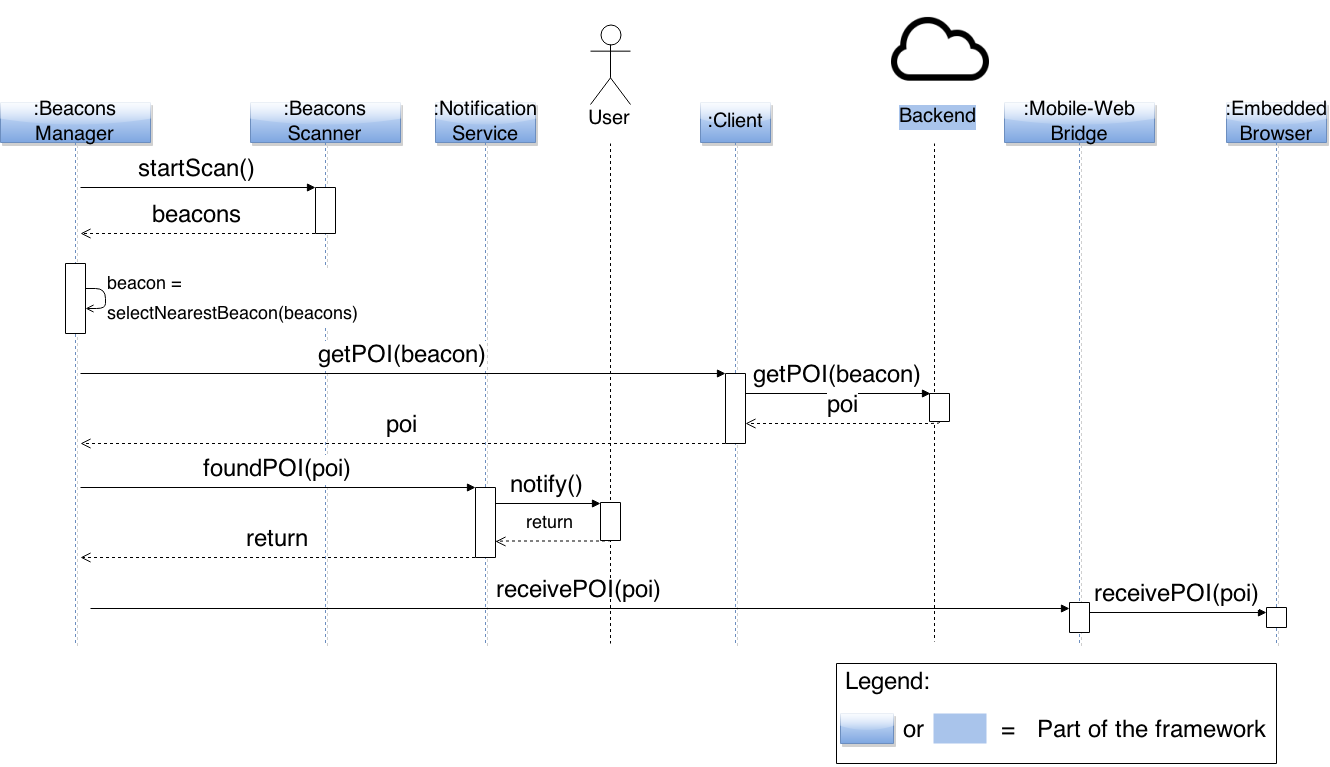
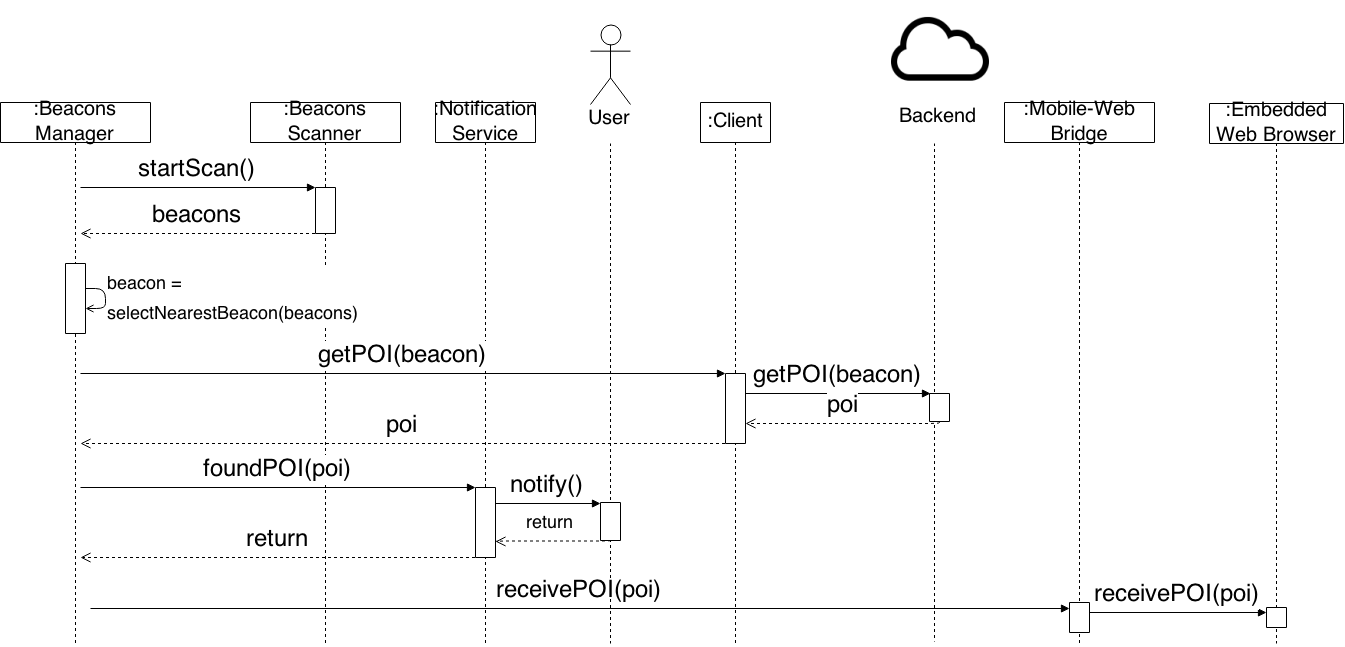
Final fix before release

diff --git a/sections/6-architecture.tex b/sections/6-architecture.tex
@@ -28,7 +28,10 @@ they run in the device's browser.
 This is the main reason why our framework will
 target mobile web apps instead of native ones.
 This means that, when the user starts to interact
-with a Smart Place, he will interact with a mobile
+with a Smart Place, he will initially discover the
+beacons using a native app but from that moment
+onwards
+he will interact with a mobile
 web app, running in his mobile device's browser.
 
 However, detecting
@@ -84,7 +87,7 @@ Also, \textbf{Smart Places Owners} can use it to configure
 their Smart Places and configure which applications
 will run there.
 Since these apps will be mobile web apps, they will run
-in a embedded browser inside the Smart Places App.
+in a embedded web browser inside the Smart Places App.
 \textbf{Developers} will need to use the \textbf{Framework} to
 develop such apps. Also, the Framework will provide an
 Interface between the mobile web app, that will run
@@ -130,7 +133,7 @@ the Beacons Manager will call the \textbf{Mobile-web Bridge},
 which provides an interface between the native app
 and the web app, that will deliver this information
 to the mobile web app that is running in the
-\textbf{Embedded Browser}. 
+\textbf{Embedded Web Browser}. 
 Each time the web app needs to interact
 with the native app, this component is called.
 The \textbf{User Manager} is called to login the
@@ -211,7 +214,7 @@ about the Smart Places that were found.
 Then, the user can ignore the notification or
 choose one Smart Place. If he selects one,
 the Beacons Manager calls the Mobile-Web Bridge,
-which will request the Embedded Browser to load
+which will request the Embedded Web Browser to load
 the URL of the selected Smart Place. Now, the user
 will have access to the web application associated
 with the Smart Place;
@@ -235,20 +238,20 @@ found. After the user clicks on the notification,
 the Beacons Manager will call the Mobile-Web
 Bridge to deliver the POI object to the mobile
 web application that belongs to the Smart Place
-and is running in the Embedded Browser.
+and is running in the Embedded Web Browser.
 \end{itemize}
 
 \begin{figure}[!ht]
   \centering
     \includegraphics[width=1\textwidth]{img/smart-places-sequence}
-    \caption{Sequence Diagram}
+    \caption{Discover smart place sequence diagram}
     \label{fig:sequence-smart-places}
 \end{figure}
 
 \begin{figure}[!ht]
   \centering
     \includegraphics[width=1\textwidth]{img/smart-places-poi-sequence}
-    \caption{Sequence Diagram}
+    \caption{Mapping beacons in a smart place sequence diagram}
     \label{fig:sequence-poi}
 \end{figure}
 
@@ -259,7 +262,7 @@ to develop their applications without having to
 configure any backend and writing code to handle
 the BLE Beacons.
 They will only write the code
-that will run inside the Embedded Browser.
+that will run inside the Embedded Web Browser.
 Their applications will receive POI objects,
 which can be handled by any function. Since
 these functions will run in the mobile
@@ -303,7 +306,7 @@ is a wireless signal.
 
 \item How to pass POI objects from the mobile
 app to the web application running inside the
-Embedded Browser.
+Embedded Web Browser.
 The application that belong to a Smart Place
 will run in the mobile device's browser.
 However, after mapping beacons to POI objects,
@@ -363,7 +366,7 @@ in order to be able to interact with a Smart Place
 our solution will allow developers to develop their
 applications for Smart Places using web technologies,
 such as HTML, CSS and Javascript. This applications
-will run in the Embedded Browser of our mobile app.
+will run in the Embedded Web Browser of our mobile app.
 Also, instead of just mapping BLE Beacons to URLs we map
 BLE Beacons to POI objects. Developers will receive
 these objects, in their mobile web apps developed for

diff --git a/sections/5-related-work.tex b/sections/5-related-work.tex
@@ -441,12 +441,12 @@ than PhoneGap.
 
 \subsection{Summary}
 \label{sub:summary}
-To finish this section, each related work has its own
+Each related work has its own
 advantages and limitations.
 In \ref{sub:ble_beacons_applications} some
 examples of proximity-based apps were described.
 In \ref{sub:frameworks_context_aware} there is
-some discussion about some
+some discussion about
 frameworks for developing context-aware mobile apps,
 including their limitations.
 Most of them, only support mobile native apps and
@@ -466,7 +466,7 @@ these solutions have the same disadvantages of the
 ones in \ref{sub:frameworks_context_aware}.
 None of those solutions offer abstractions to
 the technology used to get information about POIs.
-In a nutshell, the presented related work have
+In a nutshell, the presented related work has
 the following limitations:
 \begin{itemize}
 \item Owners of spaces do not have access to
@@ -488,7 +488,7 @@ different behavior for each POI
 \end{itemize}
 Our framework, described in the next section, tries 
 to offer a complete solution that solves all
-these limitations, in such a way that, developers do not
+these limitations in such a way that developers do not
 need to think about the technology behind proximity-based
 apps, but only about the application logic and the meaning
 of each point of interest.

diff --git a/sections/1-abstract.tex b/sections/1-abstract.tex
@@ -42,13 +42,17 @@ satellite signals.
 Bluetooth Low Energy (BLE) Beacons perform well
 indoors. They broadcast an identifier, using
 BLE, that mobile
-apps can receive and offer different possibilities, to the users.
+apps can receive and allow them to offer 
+different possibilities to the users.
 To develop apps for Smart Places we need
 to write the code that gets the beacons' identifiers and
 get more information about the POI for each identifier from
-a backend. Also, users need to install one app for each Smart Place.
-Here, we introduce a solution to make the development of mobile
-apps for smart places much easier and faster than the existing
+a backend. 
+Also, users need to install one app for each Smart Place.
+Here, we propose a solution to make the development of 
+mobile
+apps for smart places much easier and faster than the
+existing
 solutions, with benefits for both users and owners of
 such Smart Places. Users will only need one app to interact
 with any Smart Place. Owners will use the same app to

diff --git a/sections/3-introduction.tex b/sections/3-introduction.tex
@@ -68,7 +68,7 @@ technologies.
 %-----------------------------
 % BLE
 %-----------------------------
-\subsection{BLE}
+\subsection{Bluetooth Low Energy}
 \label{sub:bluetooth_low_energy}
 Bluetooth is a wireless, short-range, communication technology.
 Bluetooth Low Energy (BLE)\footnote{http://www.bluetooth.com/Pages/Bluetooth-Smart.aspx} 
@@ -216,8 +216,8 @@ web apps do not need to be installed.
 The solution being proposed here aims to allow
 users to interact with any Smart Place without
 the need of download and install one native
-app, in their mobile devices, for each Smart
-Place.
+mobile app for each Smart Place, in their mobile 
+devices.
 Developers will be able to develop their
 applications, that are based on POIs, using
 web technologies, such as 

diff --git a/sections/8-conclusions.tex b/sections/8-conclusions.tex
@@ -48,7 +48,7 @@ Also, the apps are native ones.
 The solution proposed here tries to create abstractions
 for the BLE Beacons and for the backend, allowing
 developers to spend most of their time writing the
-code for the application logic as they should,
+code for the application logic
 instead of in the details of the technology that is
 being used. Besides the benefits for developers,
 the main benefit for the users is that they only need

diff --git a/sections/4-objectives.tex b/sections/4-objectives.tex
@@ -47,7 +47,7 @@ instead of just redirect the user to an URL.
 For instance, in the restaurant scenario in section
 \ref{sub:bluetooth_low_energy}, developers would
 write the code to get the table's number where the
-user is and make the order. They will not need
+user is and make the order. They would not need
 to know how to perform the mapping between beacons
 and tables
 

diff --git a/report.tex b/report.tex
@@ -24,11 +24,6 @@
 % To have blank pagesb
 \usepackage{afterpage}
 
-\newcommand\blankpage{%
-    \null
-    \thispagestyle{empty}%
-    \newpage}
-
 %
 % Change the margins
 %
